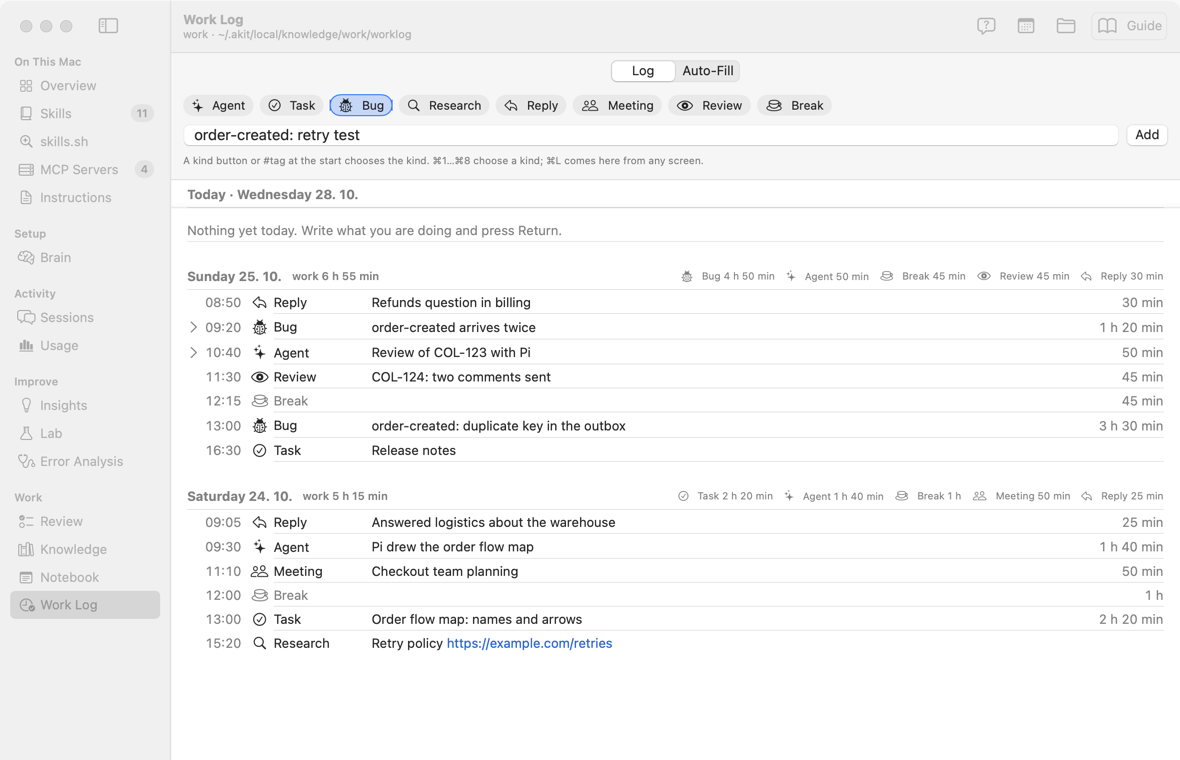
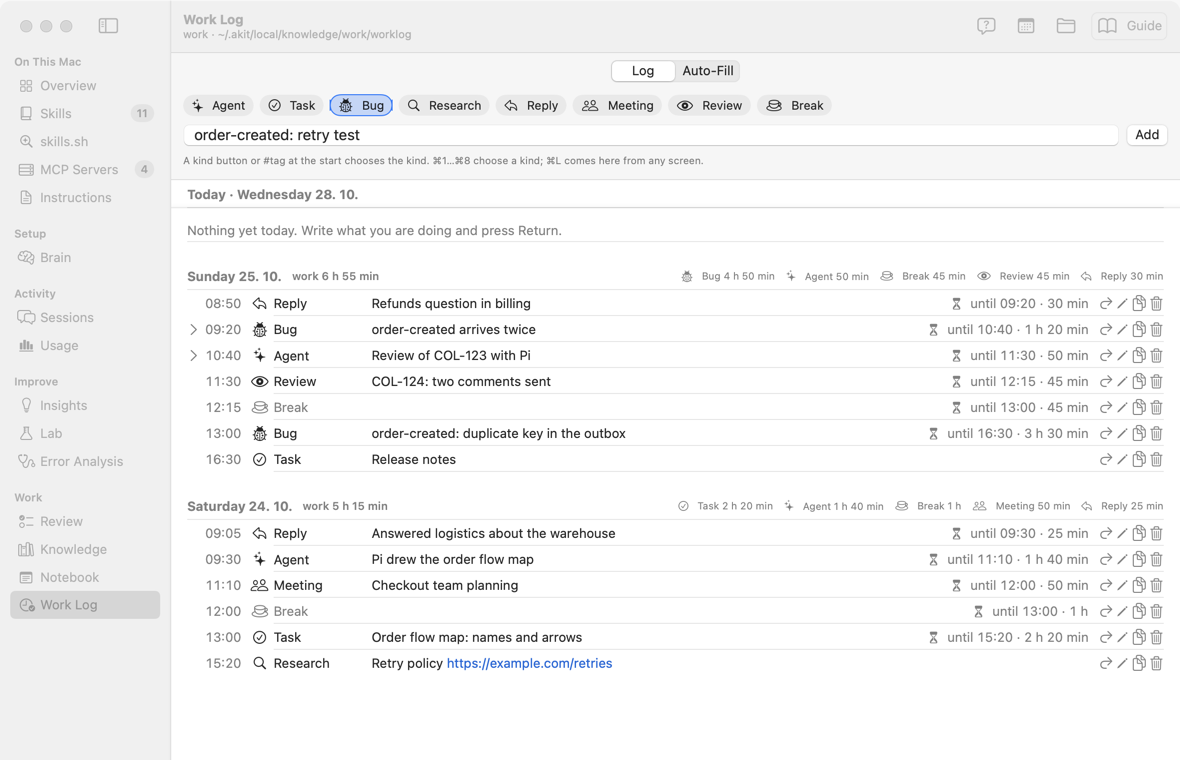
Show Work Log row actions as buttons and say what the time means
Each entry now has Again Now, Edit, Copy and Delete buttons on the right,
not only in the right-click menu. The duration reads "until 10:40 · 1 h 20 min"
(or "until now · 25 min") with a tooltip, so it is clear it is how long the
entry lasted until the next one.

diff --git a/AKit/WorkLog/WorkLogView.swift b/AKit/WorkLog/WorkLogView.swift
@@ -261,10 +261,14 @@ private struct WorkLogRow: View {
                     .foregroundStyle(kind?.isWork == false ? .secondary : .primary)
                 Text(linked(entry.text)).textSelection(.enabled).frame(maxWidth: .infinity, alignment: .leading)
                 if let minutes {
-                    Text((running ? "now · " : "") + KnowledgeWorkLog.duration(minutes))
+                    Label(lasted(minutes), systemImage: running ? "timer" : "hourglass")
                         .monospacedDigit()
                         .foregroundStyle(running ? Color.accentColor : .secondary)
+                        .help(running
+                              ? "Still going: \(KnowledgeWorkLog.duration(minutes)) since \(entry.time). It lasts until your next entry"
+                              : "Lasted \(KnowledgeWorkLog.duration(minutes)): from \(entry.time) until the next entry")
                 }
+                actions
             }
             // On the line only: a double click on the chevron just opens and closes the summary.
             .contentShape(Rectangle())
@@ -273,14 +277,39 @@ private struct WorkLogRow: View {
         .contextMenu {
             Button("Again Now") { model.again(entry) }
             Button("Edit…") { model.editRequest = .init(date: date, entry: entry) }
-            Button("Copy") {
-                NSPasteboard.general.clearContents()
-                NSPasteboard.general.setString(entry.markdownLines.joined(separator: "\n"), forType: .string)
-            }
+            Button("Copy") { copy() }
             Divider()
             Button("Delete…", role: .destructive) { model.deleteRequest = .init(date: date, entry: entry) }
         }
-        .help("Double-click to edit; right-click: Again Now adds the same entry with the time now")
+        .help("Double-click to edit; the buttons on the right: Again Now, Edit, Copy, Delete")
+    }
+
+    /// How long the entry lasted, with its end: "until 10:40 · 1 h 20 min", "until now · 25 min".
+    private func lasted(_ minutes: Int) -> String {
+        let end = running ? "now" : KnowledgeWorkLog.minute(entry.time).map { KnowledgeWorkLog.time(($0 + minutes) % (24 * 60)) } ?? "?"
+        return "until \(end) · \(KnowledgeWorkLog.duration(minutes))"
+    }
+
+    /// The row's actions as buttons, so they are seen without a right click.
+    private var actions: some View {
+        HStack(spacing: 2) {
+            Button("Again Now", systemImage: "arrow.uturn.forward") { model.again(entry) }
+                .help("Again Now: add the same entry with the time now")
+            Button("Edit…", systemImage: "pencil") { model.editRequest = .init(date: date, entry: entry) }
+                .help("Edit the time, kind, text and summary")
+            Button("Copy", systemImage: "doc.on.doc") { copy() }
+                .help("Copy the entry's line and its summary")
+            Button("Delete…", systemImage: "trash", role: .destructive) { model.deleteRequest = .init(date: date, entry: entry) }
+                .help("Delete the entry; the base's git keeps the old version")
+        }
+        .labelStyle(.iconOnly)
+        .buttonStyle(.borderless)
+        .foregroundStyle(.secondary)
+    }
+
+    private func copy() {
+        NSPasteboard.general.clearContents()
+        NSPasteboard.general.setString(entry.markdownLines.joined(separator: "\n"), forType: .string)
     }
 
     /// Web links in the text open with a click.

diff --git a/AKitCore/Sources/AKitKnowledge/KnowledgeWorkLog.swift b/AKitCore/Sources/AKitKnowledge/KnowledgeWorkLog.swift
@@ -237,7 +237,8 @@ public struct KnowledgeWorkLog: Sendable {
         return hour * 60 + minute
     }
 
-    static func time(_ minute: Int) -> String { String(format: "%02d:%02d", minute / 60, minute % 60) }
+    /// Minutes since midnight → `HH:MM`.
+    public static func time(_ minute: Int) -> String { String(format: "%02d:%02d", minute / 60, minute % 60) }
 
     static let dayFormatter: DateFormatter = {
         let formatter = DateFormatter()

diff --git a/docs/guides/worklog.ru.md b/docs/guides/worklog.ru.md
@@ -27,9 +27,9 @@
 - День: дата, `work` — сколько всего работы, справа — время по видам.
 - Дни показаны страницами: сегодня и 14 последних дней с записями. Внизу — **Show 14 More Days (N left)**: ещё 14 дней и сколько осталось.
 - **Go to Day…** (значок календаря в панели инструментов): выберите день — журнал откроет его, даже если он год назад.
-- Запись: время, вид, текст, сколько длилась.
+- Запись: время, вид, текст, до какого времени и сколько длилась, кнопки действий.
 
-![Экран Work Log: кнопки видов, выбран Bug, в поле набрано «order-created: retry test»; Today пустой; 25.10 с work 6 h 55 min и временем по видам, записи Reply, Bug, Agent, Review, Break, Bug, Task со временем; 24.10 с записью Research со ссылкой https://example.com/retries](images/worklog.png)
+![Экран Work Log: кнопки видов, выбран Bug, в поле набрано «order-created: retry test»; Today пустой; 25.10 с work 6 h 55 min и временем по видам, записи Reply, Bug, Agent, Review, Break, Bug, Task; справа у каждой «until 09:20 · 30 min» и кнопки Again Now, Edit…, Copy, Delete…; 24.10 с записью Research со ссылкой https://example.com/retries](images/worklog.png)
 
 ## Записать, что вы делаете
 <!-- section: write -->
@@ -52,7 +52,7 @@
 ## Сколько длилась запись
 <!-- section: time -->
 
-**Что это:** запись длится до следующей записи того же дня. Последняя запись сегодня длится до «сейчас» и подписана `now · 25 min`. У последней записи прошлого дня длины нет: конец неизвестен.
+**Что это:** запись длится до следующей записи того же дня. Справа в строке: `until 10:40 · 1 h 20 min` — запись шла до 10:40, всего 1 h 20 min. Последняя запись сегодня идёт до «сейчас»: `until now · 25 min`, синим цветом. У последней записи прошлого дня длины нет: конец неизвестен.
 
 **Пример.** 09:20 **Bug**, 10:40 **Agent**. Баг занял 1 h 20 min.
 
@@ -61,13 +61,15 @@
 ## Исправить и повторить
 <!-- section: edit -->
 
-- Двойной щелчок по записи или правый щелчок → **Edit…**: время, вид, текст. Новое время ставит запись на её место по порядку. День не меняется.
-- **Again Now** (правый щелчок): та же запись со временем «сейчас». Удобно, когда вы вернулись к задаче.
+Справа в каждой строке четыре кнопки: **Again Now** (стрелка), **Edit…** (карандаш), **Copy** (два листа), **Delete…** (корзина). Те же команды есть в меню правого щелчка.
+
+- Карандаш, двойной щелчок по записи или правый щелчок → **Edit…**: время, вид, текст. Новое время ставит запись на её место по порядку. День не меняется.
+- **Again Now** (стрелка): та же запись со временем «сейчас». Удобно, когда вы вернулись к задаче.
 - **Copy**: строка записи и её сводка в буфер.
 - Стрелка слева от записи: показывает или прячет сводку, если она есть. Сводку можно изменить в **Edit…**, поле **Summary**.
 
 ![Записи 25.10 с открытыми сводками: под 09:20 Bug «order-created arrives twice» — два предложения о повторной отправке события и уникальном ключе; под 10:40 Agent «Review of COL-123 with Pi» — о найденной проверке на null и двух черновиках комментариев](images/worklog-summary.png)
-- **Delete…**: строка уходит из файла. Git базы хранит старую версию.
+- **Delete…** (корзина): строка уходит из файла. Git базы хранит старую версию.
 
 ![Окно Edit Entry: Time 16:30, Kind Task, Text Release notes, кнопки Cancel и Save](images/worklog-edit.png)
 
